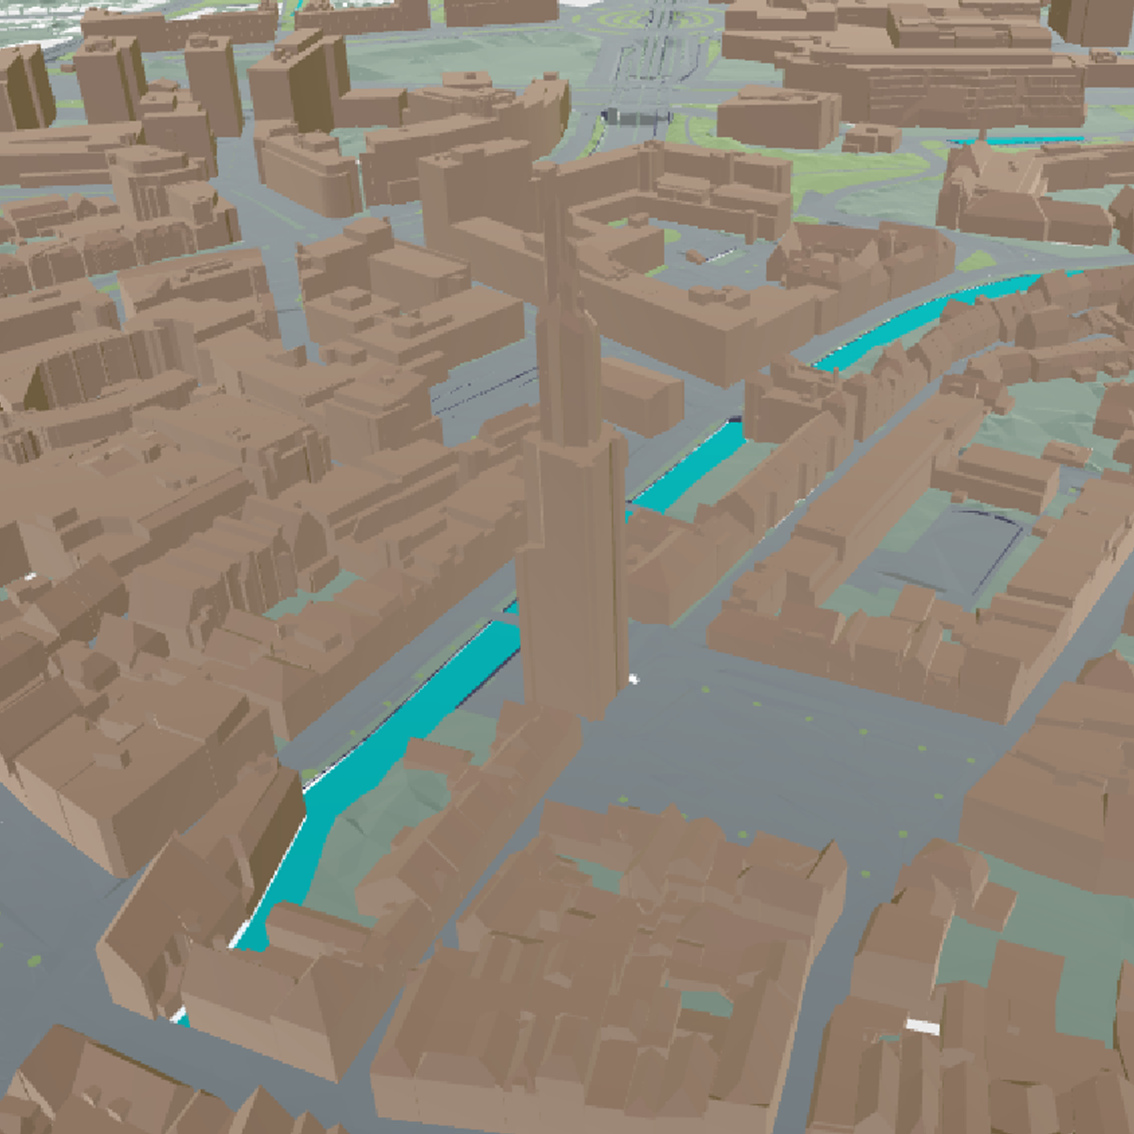
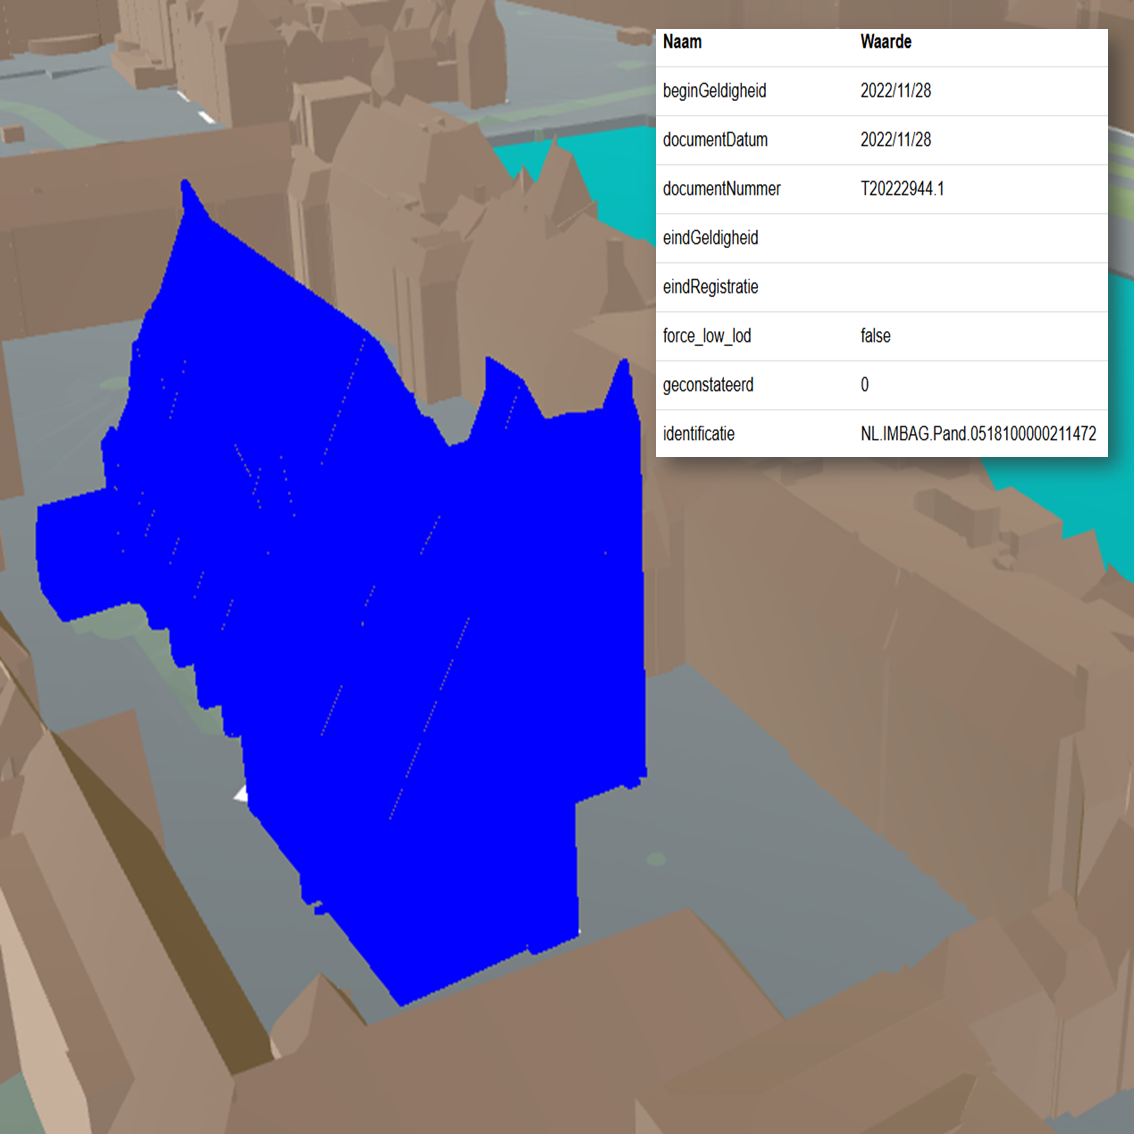
TMS-10913 examples compleet gemaakt

diff --git a/projects/ggc-home/src/app/examples/example-3d/example-3d-layer-geojson/example3d-layer-geojson.component.ts b/projects/ggc-home/src/app/examples/example-3d/example-3d-layer-geojson/example3d-layer-geojson.component.ts
@@ -6,6 +6,7 @@ import { Tags } from "../../tags.enum";
 import {
   CameraOptions,
   cameraOptionsTorentjeDenHaag,
+  GeoJsonConfig,
   GgcControlsComponent,
   GgcViewerComponent,
   ViewerOptions,
@@ -13,6 +14,12 @@ import {
 } from "@kadaster/ggc-cesium";
 import { ExampleFormatComponent } from "../../example-format/example-format.component";
 import { HttpClient } from "@angular/common/http";
+import {
+  BillboardGraphics,
+  Entity,
+  HeightReference,
+  VerticalOrigin
+} from "@cesium/engine";
 
 @Component({
   selector: "app-example-3d-layer-geojson",
@@ -25,7 +32,7 @@ export class Example3dLayerGeojsonComponent {
   // DOCS-SKIP:START
   readonly componentInfo: ComponentInfo = {
     route: "/example-3d-layer-geojson",
-    title: "(WIP) Kaartlaag toevoegen: Geojson",
+    title: "Kaartlaag toevoegen: Geojson",
     introduction: "Voeg een Geojson laag toe aan de 3D kaart.",
     components: [Components.GGC_3D],
     theme: [Themes.DRIED],
@@ -53,6 +60,22 @@ export class Example3dLayerGeojsonComponent {
   };
   protected kaartConfig =
     "code/examples/example-3d/example-3d-layer-geojson/kaartconfig.json";
+
+  protected geoJsonConfigs: GeoJsonConfig[] = [
+    {
+      layerId: "terugmeldingen-bgt",
+      entitiesFunction: (entity: Entity) => {
+        entity.billboard = new BillboardGraphics({
+          image:
+            "code/examples/example-3d/example-3d-layer-geojson/pointer-pin.svg",
+          scale: 0.05,
+          heightReference: HeightReference.CLAMP_TO_GROUND,
+          verticalOrigin: VerticalOrigin.BOTTOM,
+          disableDepthTestDistance: Number.POSITIVE_INFINITY
+        });
+      }
+    }
+  ];
 
   private readonly httpClient = inject(HttpClient);
 

diff --git a/projects/ggc-home/src/app/examples/example-3d/example-3d-layer-geojson/example3d-layer-geojson.component.html b/projects/ggc-home/src/app/examples/example-3d/example-3d-layer-geojson/example3d-layer-geojson.component.html
@@ -19,14 +19,16 @@
       {{ componentInfo.introduction }}
     </p>
     <p>
-      In dit voorbeeld zijn het terrein en de gebouwen uit de 3D
-      Basisvoorziening als lagen toegevoegd aan de kaart. Deze kaartlagen worden
-      in MapBox Vector Tiles formaat opgevraagd bij een OGC API - Tiles.
+      In dit voorbeeld zijn 2 geojson lagen toegevoegd bovenop de
+      achtergrondkaart. De rode lijnen zijn de gemeentelijnen, waarbij de rode
+      kleur is toegevoegd in de configuratie. De roze labels zijn BAG
+      terugmeldingen, waarbij ook de style is ingesteld in de configuratie. De
+      BGT meldingen zijn de rode pins. Deze rode pins is een SVG afbeelding die
+      is ingeladen via de geoJsonConfig die gekoppeld is via het layerId. Deze
+      entitiesFunction kan uiteraard worden uitgebreid met extra logica waardoor
+      verschillende SVGs gekoppeld kunnen worden aan specifieke properties van
+      het object.
       <br />
-      Naast de kaartconfiguratie zijn er ook nog andere opties to configureren
-      voor 3D tiles in de TileSetConfig. Zie hiervoor het voorbeeld Camera
-      opties instellen voor 3D layer.
-    </p>
   </div>
 
   <div page-functionality>
@@ -55,6 +57,7 @@
             [hideLogo]="hideLogo"
             (ready)="onCesiumReady()"
             [webServices]="webService"
+            [geoJsonConfigs]="geoJsonConfigs"
           ></ggc-cesium-viewer>
         </div>
       </div>

diff --git a/projects/ggc-cesium/src/lib/model/interfaces.ts b/projects/ggc-cesium/src/lib/model/interfaces.ts
@@ -165,8 +165,7 @@ export interface GeoJsonConfig {
    * Optioneel: Een functie van het type EntitiesFunction. Deze functie verwacht
    * een Entity als parameter en heeft void als return type. In deze functie kan
    * de styling van een Entity (een GeoJson feature wordt in Cesium als Entity weergegeven)
-   * aangepast worden. Hieronder is een voorbeeld gegeven waarbij een ander icoon
-   * wordt ingesteld op basis van de waarde van een property van het feature.
+   * aangepast worden.
    */
   entitiesFunction?: EntitiesFunction;
 

diff --git a/projects/ggc-home/src/app/examples/example-3d/example-3d-feature-info-auto-connect/example3d-feature-info-auto-connect.component.html b/projects/ggc-home/src/app/examples/example-3d/example-3d-feature-info-auto-connect/example3d-feature-info-auto-connect.component.html
@@ -28,6 +28,7 @@
       selectie starten en autoStartSelect uitzetten. Zie hiervoor het andere 3d
       voorbeeld met meerdere selecties.
     </p>
+    <p>Feature info werkt op zowel 3D tiles als op geojson lagen.</p>
   </div>
 
   <div page-functionality>

diff --git a/projects/ggc-home/src/app/examples/example-3d/example-3d-feature-info/example3d-feature-info.component.html b/projects/ggc-home/src/app/examples/example-3d/example-3d-feature-info/example3d-feature-info.component.html
@@ -31,6 +31,7 @@
       hiervoor het andere voorbeeld. In dit voorbeeld is autoStartSelect
       uitgezet om dit te voorkomen.
     </p>
+    <p>Feature info werkt op zowel 3D tiles als op geojson lagen.</p>
   </div>
 
   <div page-functionality>
